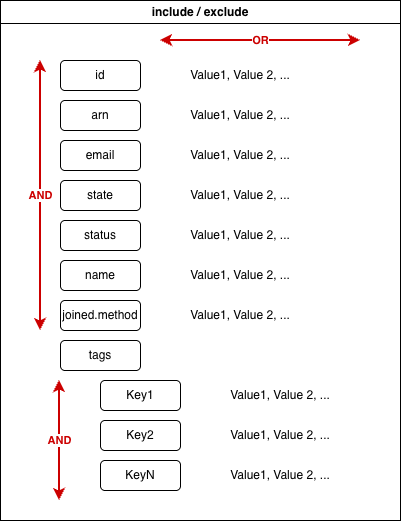
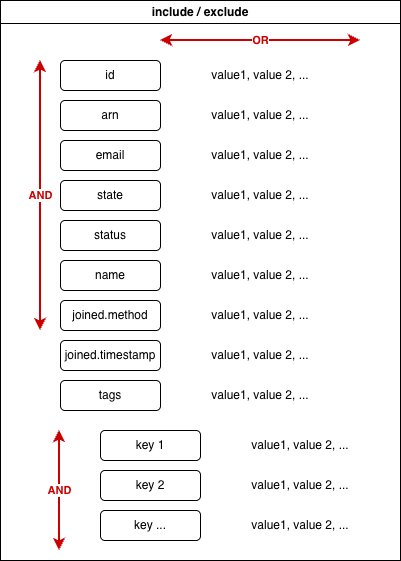
Updated docs for 'joined.timestamp' filter

diff --git a/modules/filter/README.md b/modules/filter/README.md
@@ -188,7 +188,28 @@ module "filter" {
 }
 ```
 
+#### Joined Timestamp
 
+Filter by the timestamp at which the AWS accounts joined the organization. For `is` you have to pick one of the following matchers:
+`before`, `equals`, `after`. You cannot set multiple values for `other_timestamp`.
+
+```hcl
+module "filter" {
+  source  = "be-bold/account-lookup/aws//modules/filter"
+  version = "#.#.#"
+
+  input   = module.lookup.account_list
+
+  include = {
+    joined = {
+      timestamp = {
+        is = "before"
+        other_timestamp = "2025-01-01T00:00:00.000000+01:00"
+      }
+    }
+  }
+}
+```
 
 #### Tags
 
